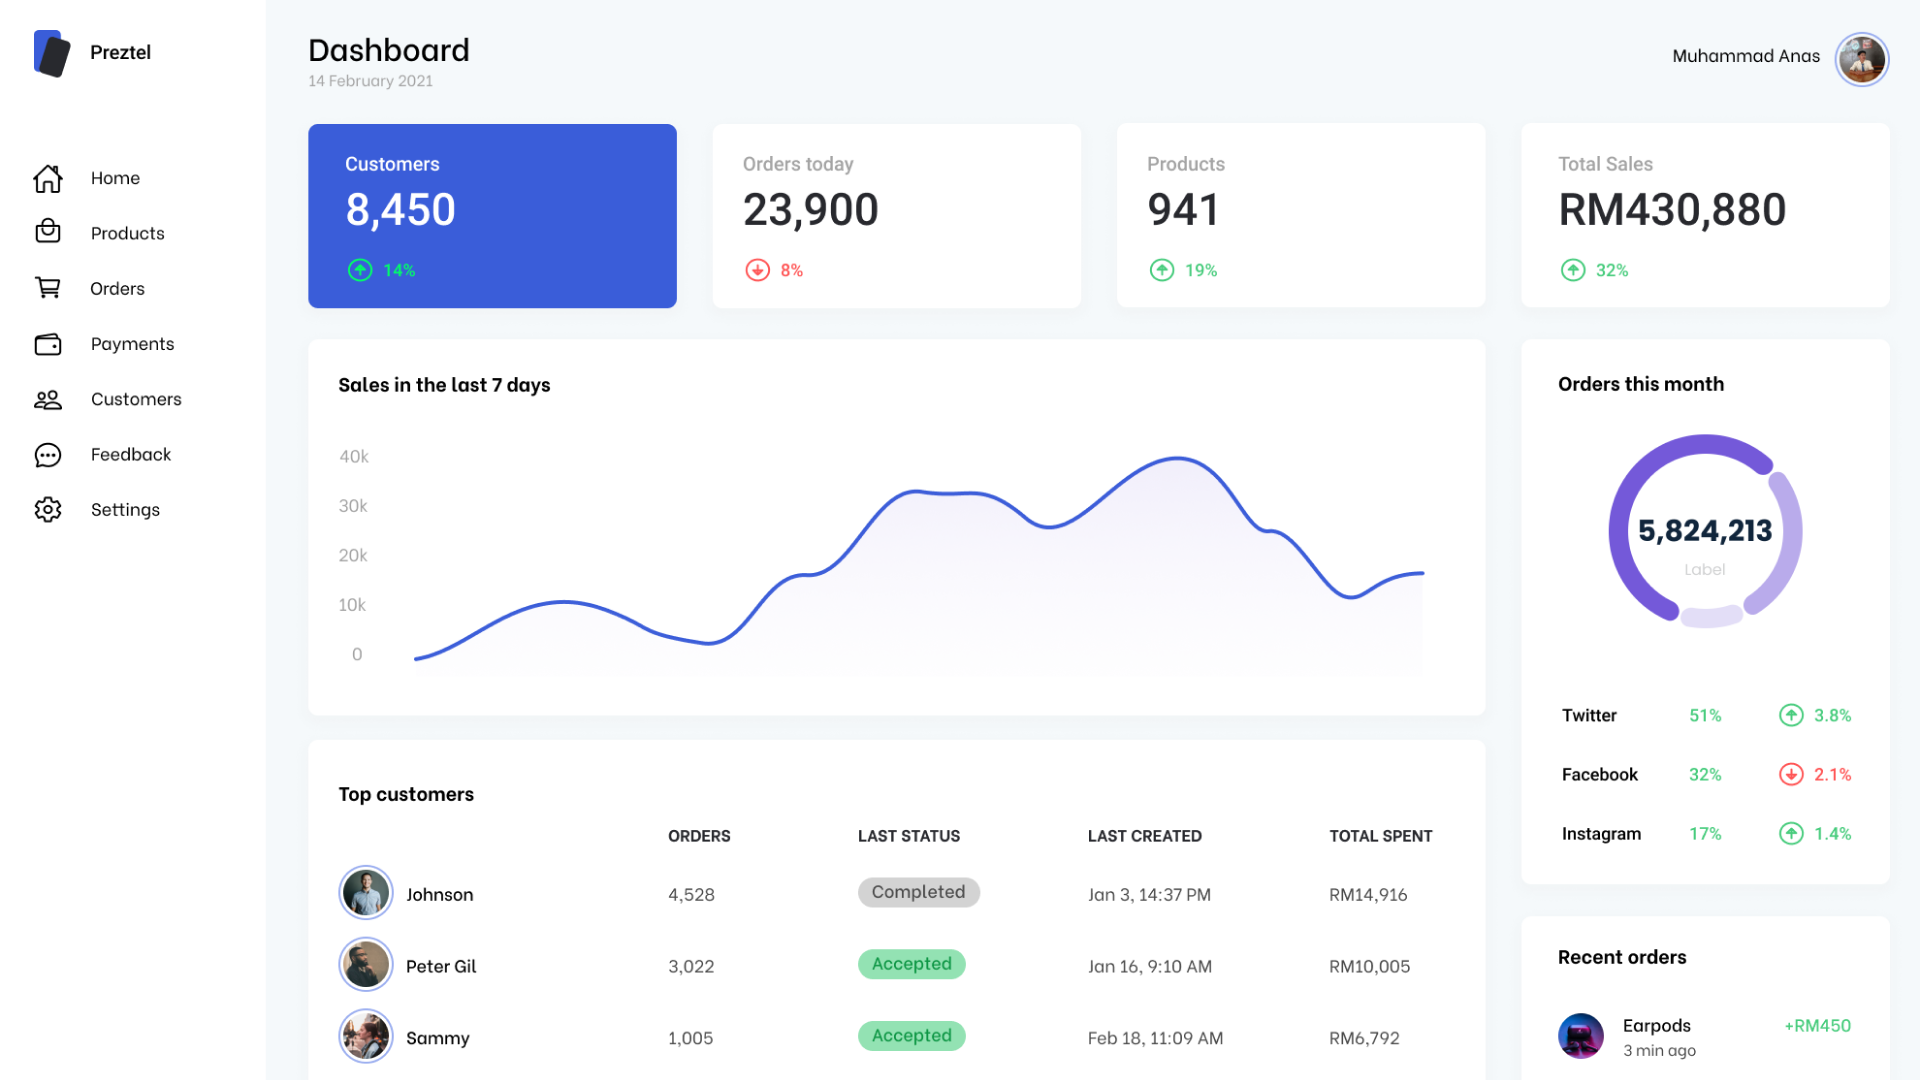
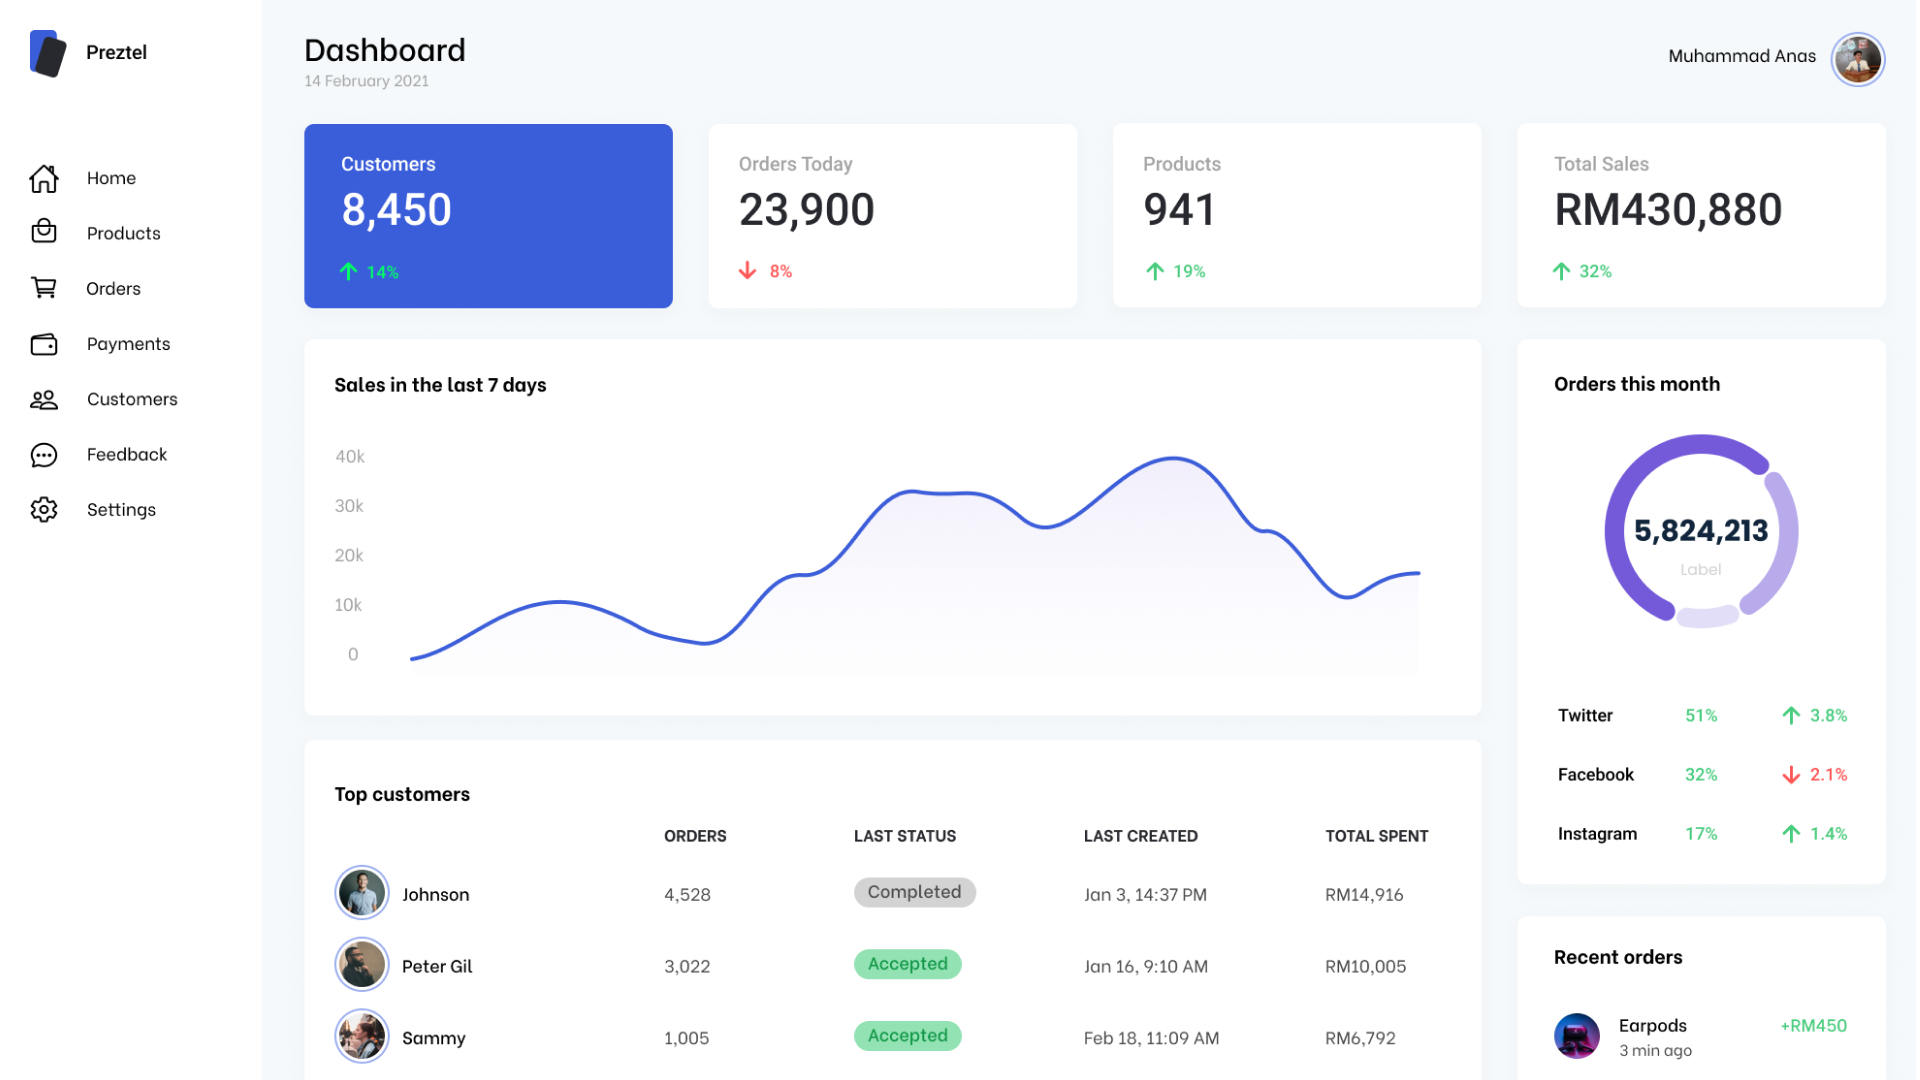
Added animations

diff --git a/src/app/components/home/home.component.html b/src/app/components/home/home.component.html
@@ -2,25 +2,25 @@
     <!-- MAIN SECTION -->
     <section class="p-5 h-screen lg:flex lg:flex-row max-w-6xl mx-auto">
         <div class="lg:h-72 lg:py-20">
-            <h1 class="text-5xl text-center lg:text-left lg:break-words mx-auto lg:mx-0 font-bold w-64 lg:w-full mt-10">
+            <h1 class="animate__animated animate__fadeInUp text-5xl text-center lg:text-left lg:break-words mx-auto lg:mx-0 font-bold w-64 lg:w-full mt-10">
                 Hey! I’m a
                 <span class="text-blue-500">Front-end</span>
                 Developer
             </h1>
-            <p class="text-gray-500 mx-auto lg:mx-0 text-center lg:text-left mt-4 md:w-3/5 lg:w-10/12">
+            <p class="animate__animated animate__fadeInUp animate__delay-1s text-gray-500 mx-auto lg:mx-0 text-center lg:text-left mt-4 md:w-3/5 lg:w-10/12">
                 My name is Anas, my expertise is in the area of frontend development. 
                 With every line of code, I strive to make the web a beautiful place.
             </p>
             <div class="flex justify-center lg:justify-start">
                 <button
                     (click)="scroll(work)"
-                    class="px-6 py-3 rounded-md bg-blue-500 text-white mt-5 lg:mt-7 border-transparent border-2 hover:bg-transparent hover:text-blue-500 hover:border-blue-500 duration-200 focus:outline-none">
+                    class="animate__animated animate__fadeInUp animate__delay-1s px-6 py-3 rounded-md bg-blue-500 text-white mt-5 lg:mt-7 border-transparent border-2 hover:bg-transparent hover:text-blue-500 hover:border-blue-500 duration-200 focus:outline-none">
                     View my work
                 </button>
             </div>
         </div>
     
-        <div class="flex justify-center lg:justify-end lg:py-20">
+        <div class="flex justify-center lg:justify-end lg:py-28">
             <img class="mt-16 lg:h-64 lg:mt-0 md:w-3/5 lg:w-3/4" src="../../../assets/images/hero-image.svg" alt="hero">
         </div>
     </section>

diff --git a/src/styles.css b/src/styles.css
@@ -4,9 +4,9 @@
 @tailwind components;
 @tailwind utilities;
 
-@import url('https://fonts.googleapis.com/css2?family=Noto+Sans:wght@400;700&display=swap');
+@import url('https://fonts.googleapis.com/css2?family=Roboto:wght@400;500;700&display=swap');
 
 html, body {
-    font-family: 'Noto Sans', sans-serif;
+    font-family: 'Roboto', sans-serif;
     overflow-x: hidden;
 }
